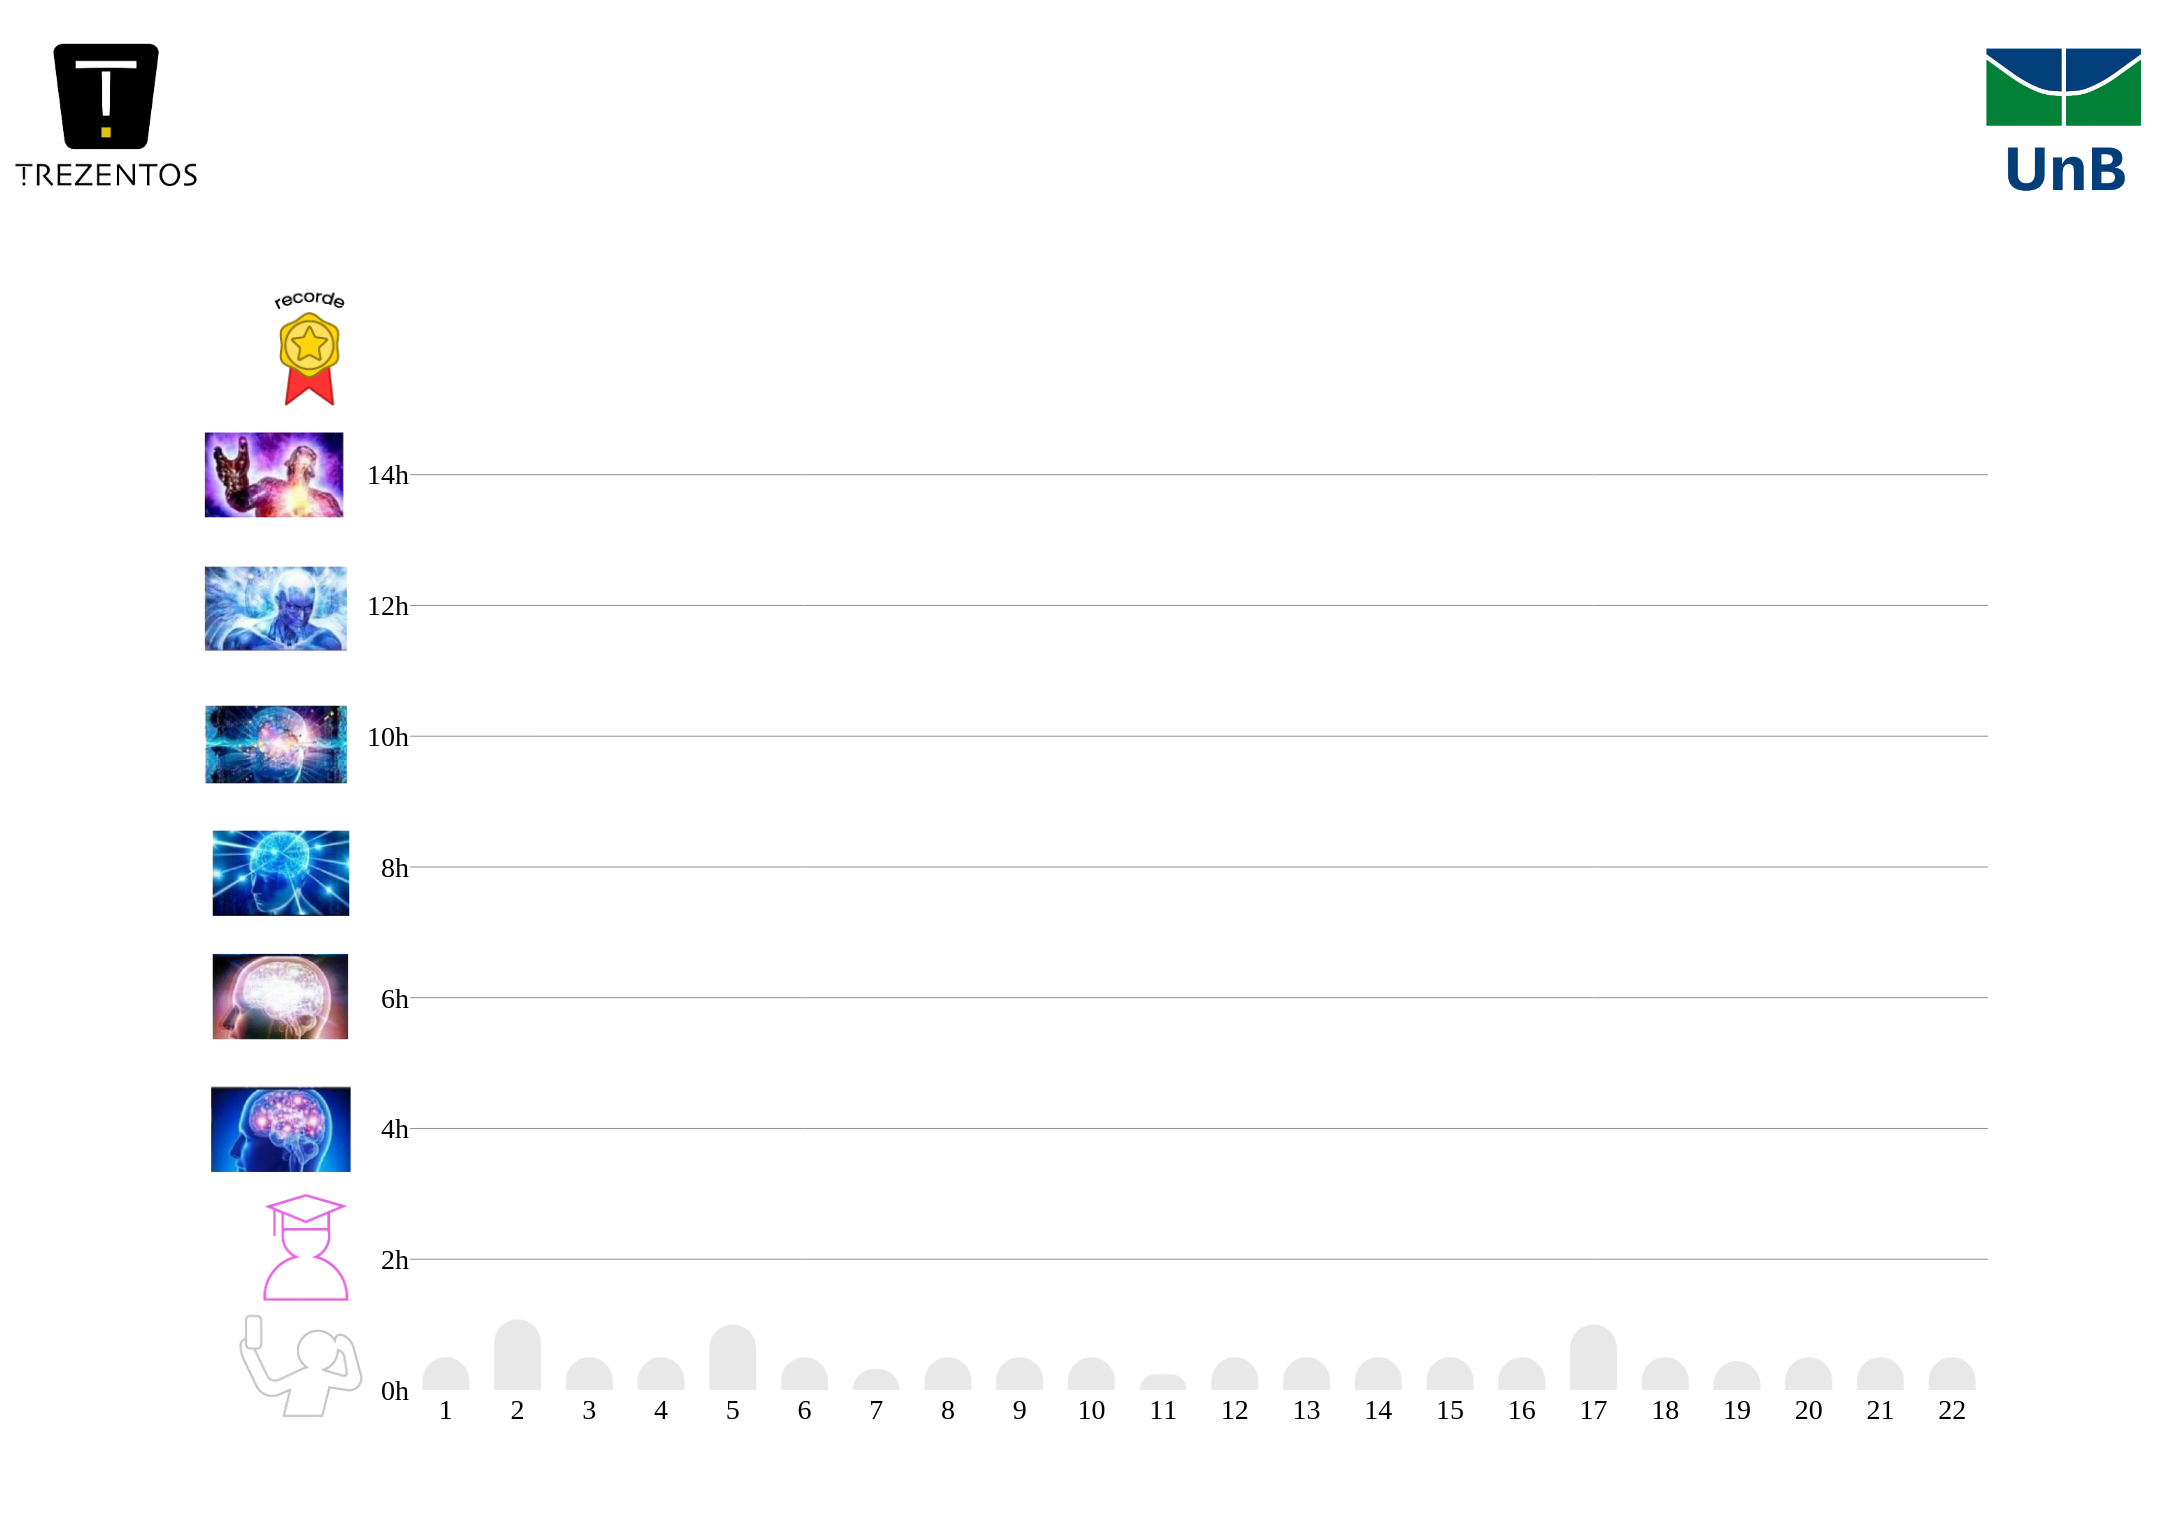
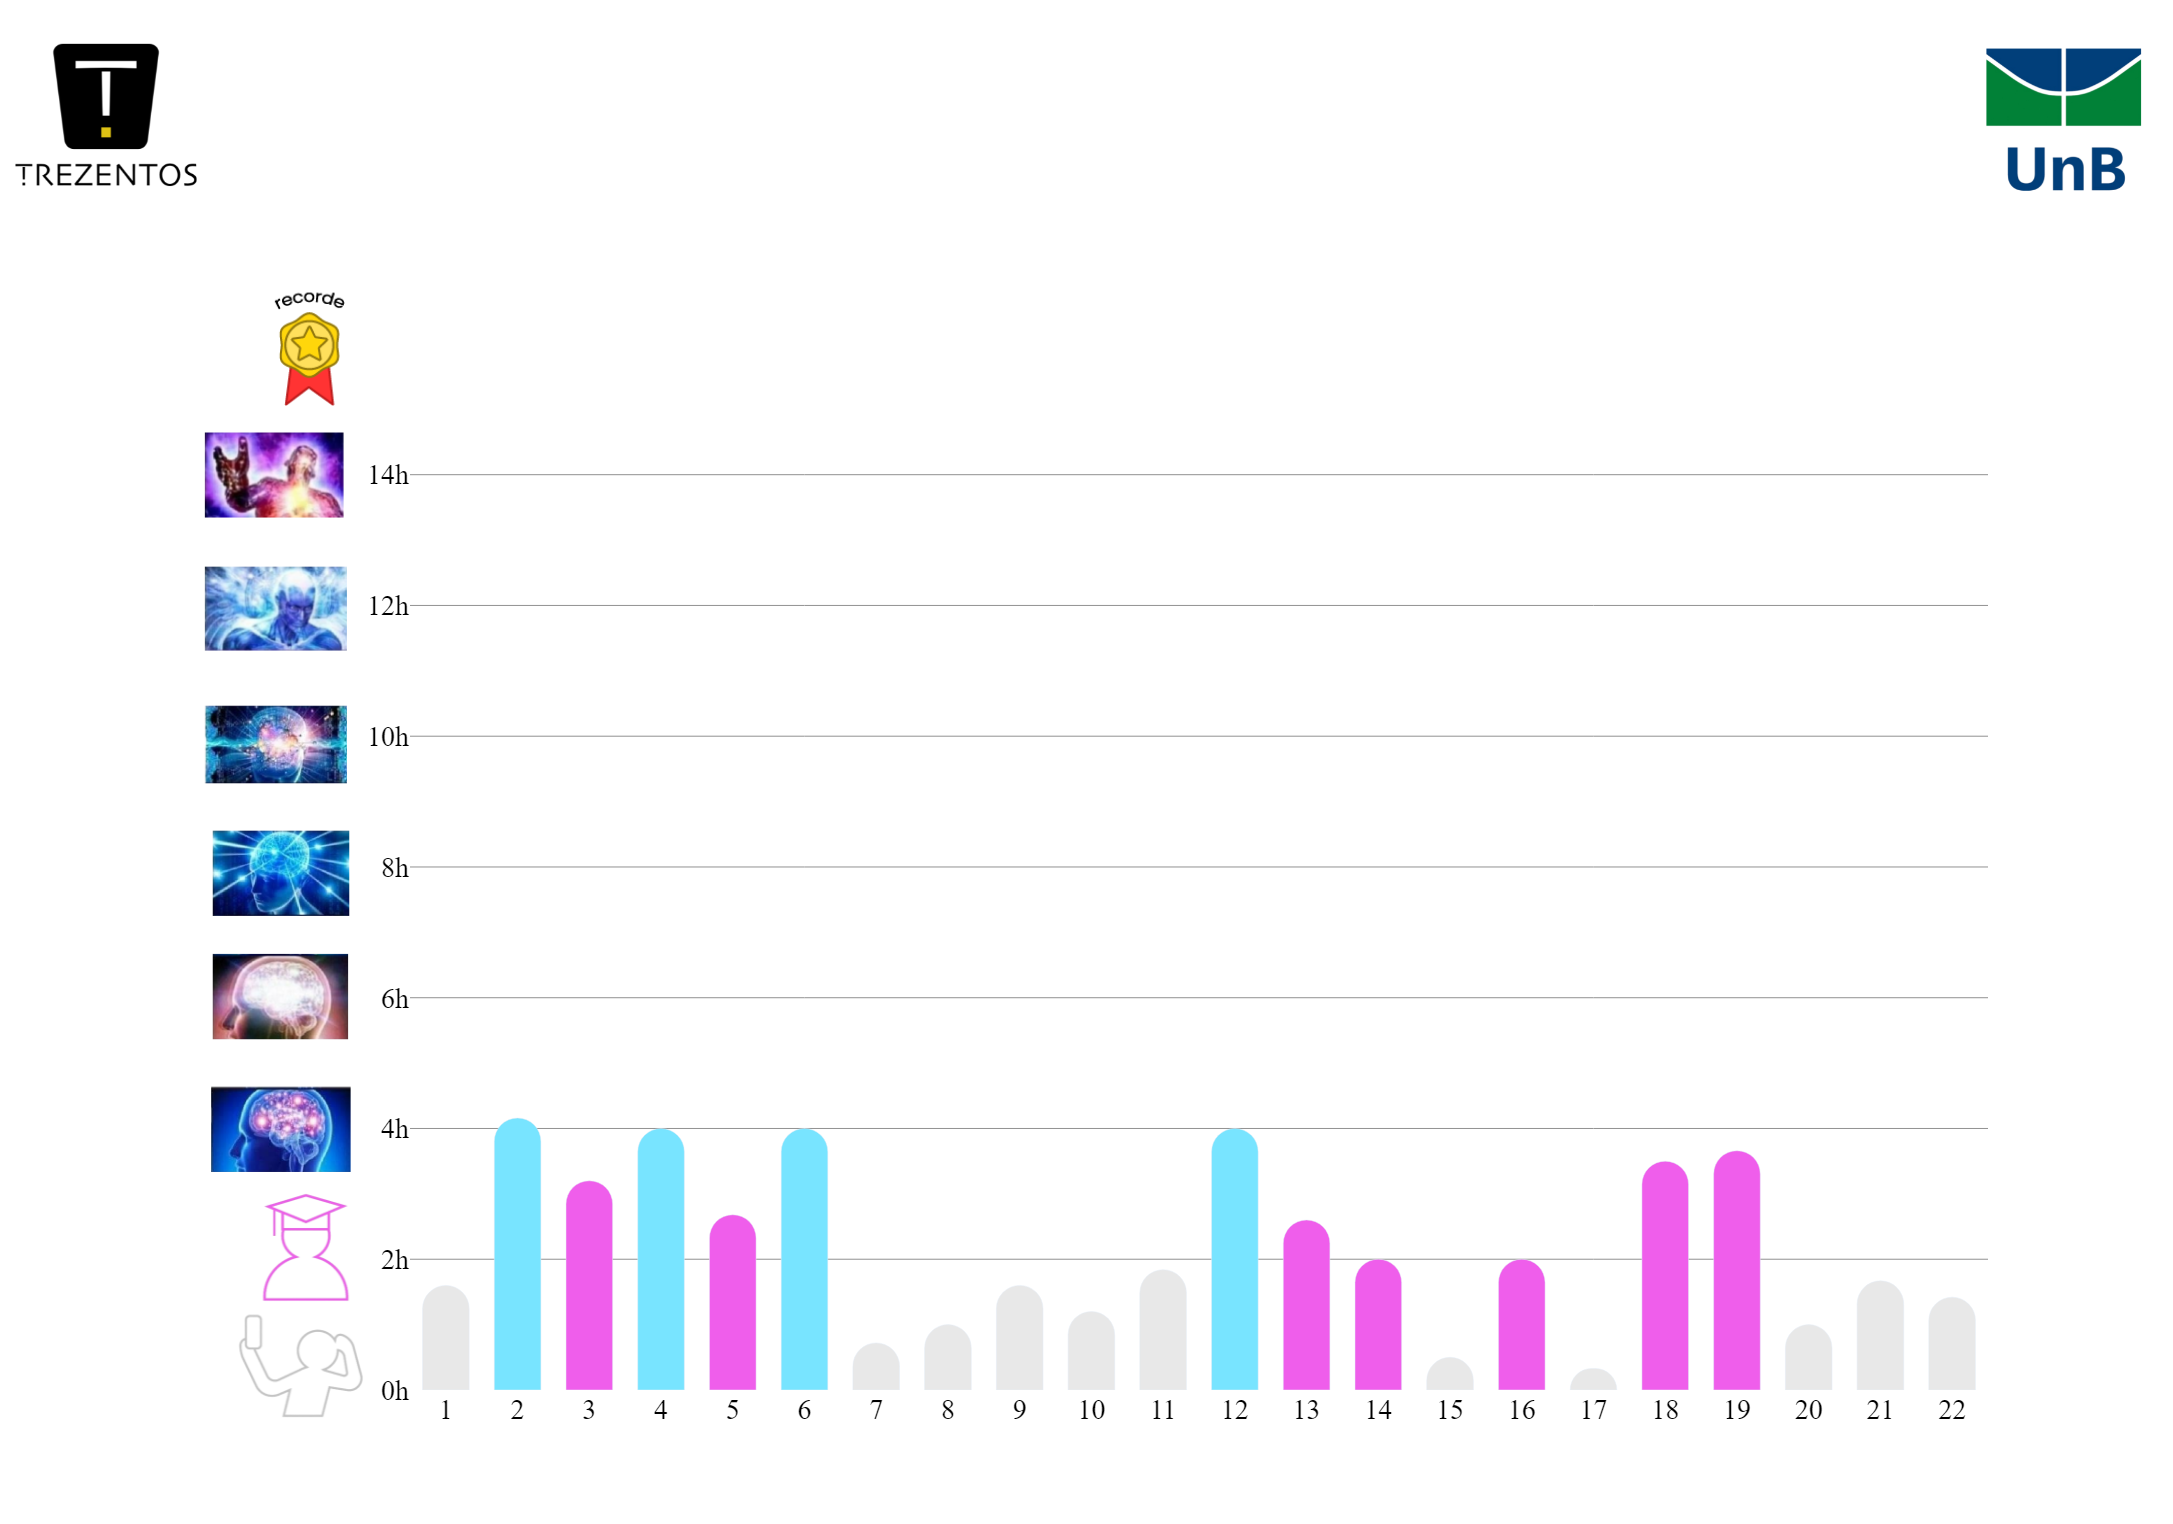
adicionando novas features

diff --git a/gerador_mente_superior/gerando_grafico_base.py b/gerador_mente_superior/gerando_grafico_base.py
@@ -14,7 +14,7 @@ linha_grade = 1.3
 linha_grade1 = 1.1
 media_turma = media_y_data = df.iloc[:, 1].mean()
 dias_totais = 15
-dia_atual = 1
+dia_atual = 4
 porcent_graf_dias = (dia_atual / dias_totais) * 30
 
 # Extrair os dados para os eixos x e y
